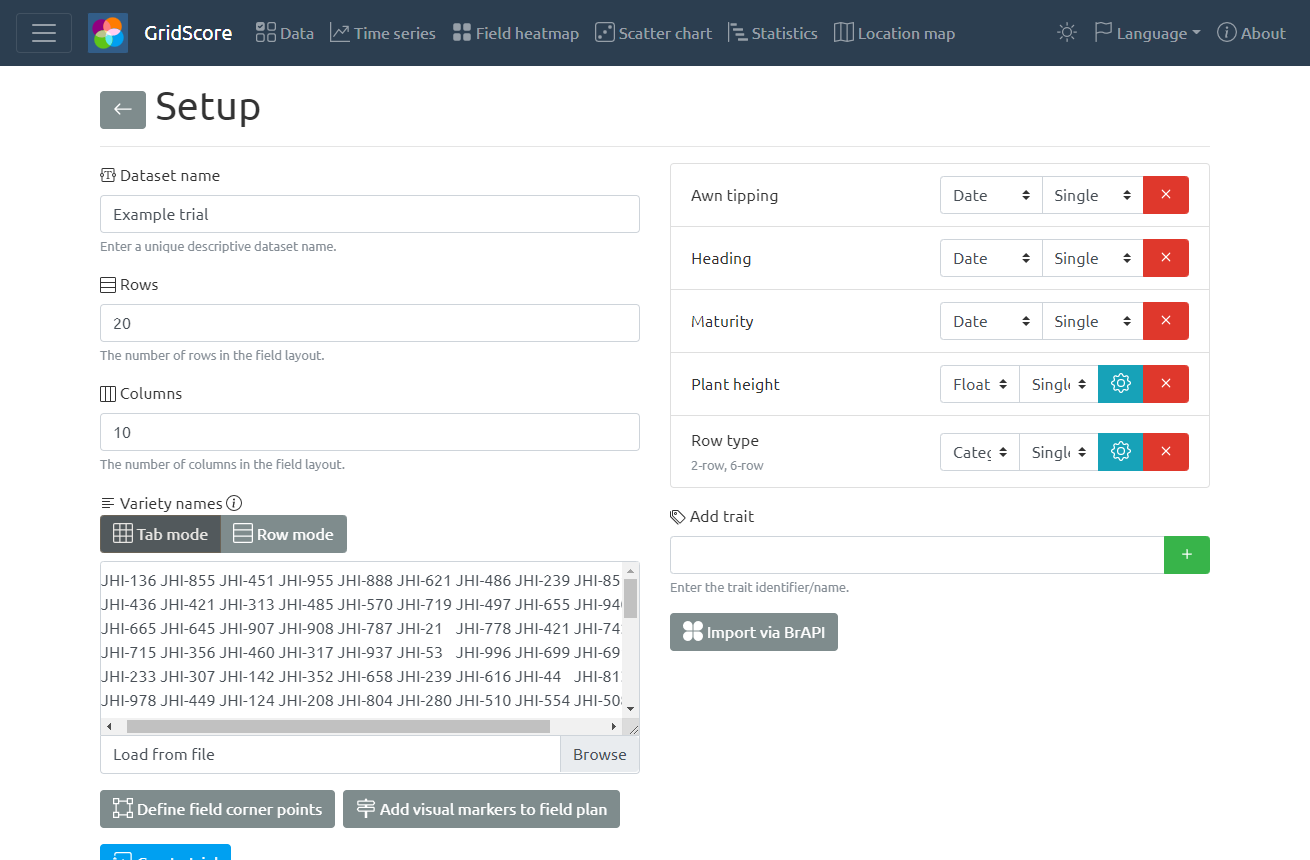
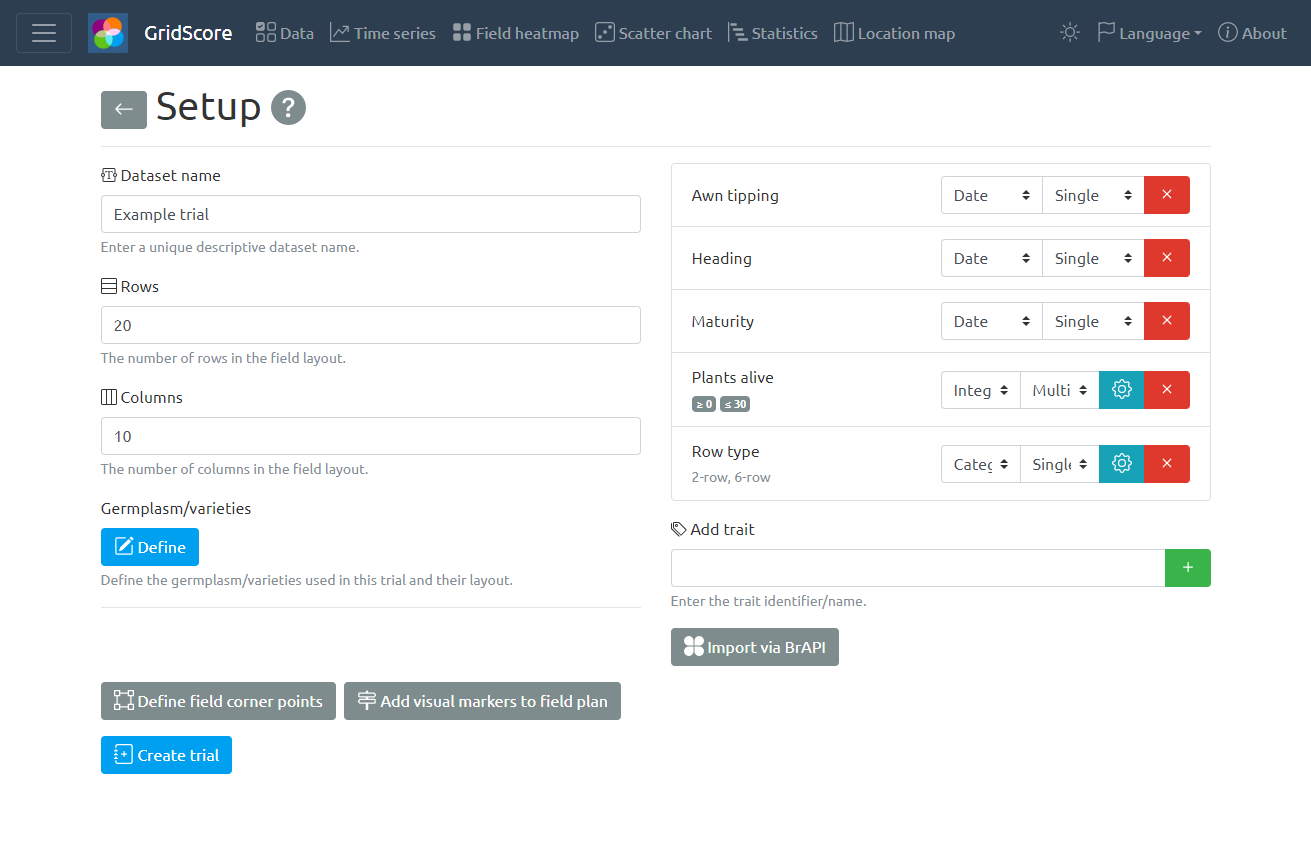
- CHG: Updated documentation to reflect latest changes on the UI.

diff --git a/src/components/BrapiExportSection.vue b/src/components/BrapiExportSection.vue
@@ -20,7 +20,7 @@
 
           <div>
             <b-button class="mr-2" :variant="allTraitsValidDbId ? null : 'primary'" :disabled="allTraitsValidDbId" @click="searchBrapiTraitMatches"><BIconSearch /> {{ $t('buttonUpdate') }}</b-button>
-            <span v-b-tooltip="traitLookupRanAtLeastOnce ? '' : $t('tooltipBrapiExportBrapiTraitRunSearch')">
+            <span v-b-tooltip="allTraitsValidDbId || traitLookupRanAtLeastOnce ? '' : $t('tooltipBrapiExportBrapiTraitRunSearch')">
               <b-button :disabled="allTraitsValidDbId || !traitLookupRanAtLeastOnce" @click="writeTraitsWithoutBrapiId"><BIconCloudPlus /> {{ $t('buttonUpload') }}</b-button>
             </span>
           </div>

diff --git a/docs/exporting-data.md b/docs/exporting-data.md
@@ -30,8 +30,22 @@ You can copy/paste this data straight from the text boxes into other tools like 
 
 [Germinate](https://ics.hutton.ac.uk/get-germinate) is a well-known plant genetic resources database which stores various types of data including phenotypic data. Germinate also has a well-defined set of [data templates](https://github.com/germinateplatform/germinate-data-templates) which are used to import data into Germinate. GridScore can export your data straight into the phenotypic data template of Germinate so you don't have to reformat your data manually.
 
-To do so, select the Germinate tab on the export page. If you have multi-traits in your trial, you will have to choose how to aggregate them as Germinate only allows a single value per plot. For numeric traits, you can choose to use the last value, the average or the sum, while for text, date or categorical traits you only have the option to use the last value.
+To do so, select the Germinate tab on the export page. If you have multi-traits in your trial, you can choose if and how to aggregate them. For numeric traits, you can choose to use the last value, the average or the sum, while for text, date or categorical traits you only have the option to use the last value.
+
+If you choose not to aggregate a trait, each value will be individually exported.
 
 To start the export process, press the `Export to Germinate format` button. This may take a few seconds depending on the size of your trial and your internet connection.
 
 Once exported, your data will be downloaded as a Germinate template Excel file.
+
+## Breeding API
+
+<img src="img/screenshot-export-brapi.png" style="max-width: 100%;" alt="Data export to BrAPI">
+
+The
+
+The  [Breeding API (BrAPI)](https://brapi.org) project is an effort to enable interoperability among plant breeding databases. BrAPI is a standardized RESTful web service API specification for communicating plant breeding data. This community driven standard is free to be used by anyone interested in plant breeding data management.
+
+GridScore can export trials data through the Breeding API. To do so, select the "Breeding API" tab on the export page. Make sure to have valid BrAPI settings like the BrAPI endpoint URL and a valid authentication token. Once set up, use the lookup sections to check for matches of germplasm and traits. All germplasm **has** to exist in the database before you can continue. For traits, it's possible to create them through BrAPI once the lookup returns.
+
+When all germplasm and traits have valid matches, you can select the program, trial and study that the data should be imported into.

diff --git a/docs/trial-setup.md b/docs/trial-setup.md
@@ -12,25 +12,15 @@ To set up a new trial hit the `Set up a trial` button on the home screen of Grid
 
 The setup screen is used to define some basic characteristics of your field trial. An ideally unique, but definitely memorable name should be chosen for each trial. The name should make it easy to identify the trial you're looking for. So something like `Drought trial Field A 2021` would be ideal.
 
-Row and column counts as well as a list of germplasm/variety names/identifiers is used to identify each plot uniquely. The identifiers can be provided either in a list - one identifier per row - so that the grid is filled in "reading order" from top left to bottom right, or, simply paste the field plan in tabular form from Excel. Make sure the number of rows and columns match what you specified previously.
+Row and column counts as well as a list of germplasm/variety names/identifiers is used to identify each plot uniquely.
 
-As an example, here are the setups for both row and tab mode that will result in the same field layout:
+The germplasm as well as the rep identifiers can be specified by clicking on the "Define" button in the "Germplasm/varieties" section.
 
-```
-A
-B
-C
+<img src="img/screenshot-setup-germplasm.png" style="max-width: 100%;" alt="Trials setup germplasm definition">
 
-E
-F
-```
+The identifiers can be provided by either entering them into the table at the bottom of the screen or by copying and pasting from a spreadsheet like Excel into the top right as seen in the screenshot. Make sure the number of rows and columns match what you specified previously.
 
-```
-A B C
-  E F
-```
-
-Note how empty/blank cells in your trial can be achieved by leaving the row/cell blank.
+Note that empty/blank cells in your trial can be achieved by leaving the cell blank.
 
 Traits are then defined along with their type which can be one of `integer`, `floating point`, `date`, `text` or `categorical` (pick from a list of options). For numeric traits, minimum and maximum values can be defined to make sure that any data that is recorded falls within these limits. For categorical traits, the actual categories need to be defined. Use the cog wheel button to enter these.
 
